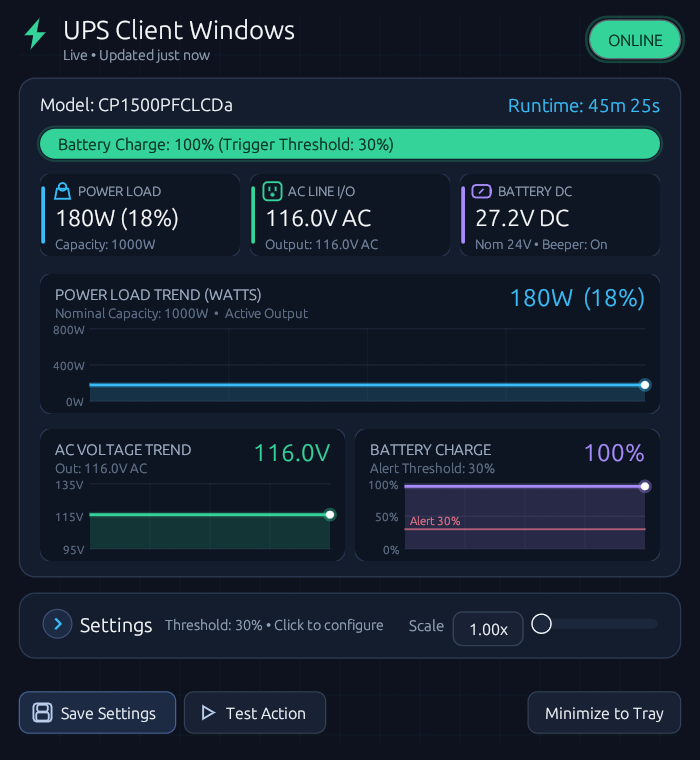
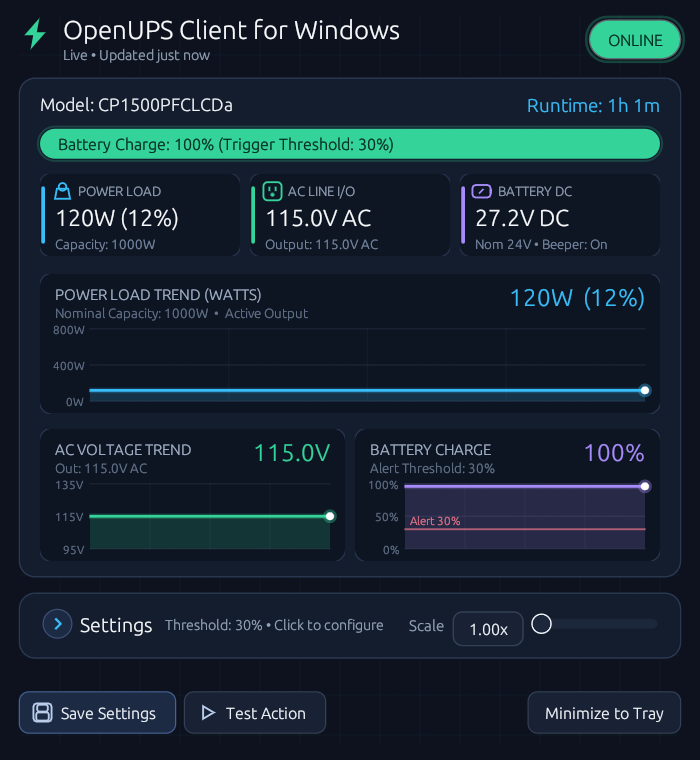
Rename application and references to OpenUPS Client for Windows

diff --git a/src/tray.rs b/src/tray.rs
@@ -37,7 +37,7 @@ pub fn resolve_app_hwnd(cached_hwnd: &AtomicIsize) -> *mut core::ffi::c_void {
         }
     }
 
-    let title: Vec<u16> = "UPS Client Windows\0".encode_utf16().collect();
+    let title: Vec<u16> = "OpenUPS Client for Windows\0".encode_utf16().collect();
     let found = unsafe { FindWindowW(std::ptr::null(), title.as_ptr()) };
     if !found.is_null() {
         cached_hwnd.store(found as isize, Ordering::Relaxed);
@@ -243,7 +243,7 @@ impl SystemTray {
         let tray_icon = TrayIconBuilder::new()
             .with_menu(Box::new(menu.clone()))
             .with_menu_on_left_click(false)
-            .with_tooltip("UPS Client Windows — Monitoring")
+            .with_tooltip("OpenUPS Client for Windows — Monitoring")
             .with_icon(icon)
             .build()
             .map_err(|e| format!("Failed to build system tray icon: {}", e))?;
@@ -354,7 +354,7 @@ impl SystemTray {
                 }
             }
             (_, Some(err)) => {
-                let tooltip = format!("UPS Client Windows — Connection Error\n{}", err);
+                let tooltip = format!("OpenUPS Client for Windows — Connection Error\n{}", err);
                 let _ = self.tray_icon.set_tooltip(Some(tooltip));
                 if let Ok(icon) = build_tray_icon([148, 163, 184]) {
                     let _ = self.tray_icon.set_icon(Some(icon));

diff --git a/src/app.rs b/src/app.rs
@@ -54,7 +54,7 @@ enum PollUpdate {
     },
 }
 
-/// Main application state for `UPS-Client-Windows`.
+/// Main application state for `OpenUPS Client for Windows`.
 pub struct UpsClientApp {
     config: AppConfig,
     settings_expanded: bool,
@@ -527,7 +527,7 @@ impl eframe::App for UpsClientApp {
                             ui.vertical(|ui| {
                                 ui.spacing_mut().item_spacing.y = 1.0;
                                 ui.label(
-                                    RichText::new("UPS Client Windows")
+                                    RichText::new("OpenUPS Client for Windows")
                                         .font(FontId::proportional(21.0))
                                         .strong()
                                         .color(Color32::from_rgb(248, 250, 252)),

diff --git a/src/main.rs b/src/main.rs
@@ -35,7 +35,7 @@ fn main() -> eframe::Result<()> {
     };
 
     let viewport = egui::ViewportBuilder::default()
-        .with_title("UPS Client Windows")
+        .with_title("OpenUPS Client for Windows")
         .with_inner_size([
             BASE_WINDOW_WIDTH * initial_scale,
             BASE_WINDOW_HEIGHT * initial_scale,
@@ -51,7 +51,7 @@ fn main() -> eframe::Result<()> {
     };
 
     eframe::run_native(
-        "UPS Client Windows",
+        "OpenUPS Client for Windows",
         native_options,
         Box::new(move |cc| {
             Ok(Box::new(UpsClientApp::new(

diff --git a/src/actions.rs b/src/actions.rs
@@ -77,7 +77,7 @@ pub fn play_alert_sound(status: &UpsStatus) -> Result<String, String> {
 /// c. Graceful Windows shutdown.
 pub fn initiate_graceful_shutdown(status: &UpsStatus) -> Result<String, String> {
     let comment = format!(
-        "UPS Client Windows: {} battery reached {}% (status: {}). Initiating graceful shutdown.",
+        "OpenUPS Client for Windows: {} battery reached {}% (status: {}). Initiating graceful shutdown.",
         status.model, status.battery_charge, status.status_label
     );
 

diff --git a/src/config.rs b/src/config.rs
@@ -40,7 +40,7 @@ impl TriggerAction {
     ];
 }
 
-/// Persistent user configuration for UPS Client Windows.
+/// Persistent user configuration for OpenUPS Client for Windows.
 #[derive(Debug, Clone, Serialize, Deserialize, PartialEq)]
 #[serde(default)]
 pub struct AppConfig {

diff --git a/README.md b/README.md
@@ -1,4 +1,4 @@
-# UPS Client Windows
+# OpenUPS Client for Windows
 
 [![License: MIT](https://img.shields.io/badge/License-MIT-emerald.svg)](LICENSE)
 [![Platform: Windows](https://img.shields.io/badge/Platform-Windows%2010%20%7C%2011-0078D4.svg)](https://github.com/virlatinus/UPS-Client-Windows)
@@ -6,9 +6,9 @@
 
 > **Modern Windows App that monitors any compatible UPS endpoint via HTTP and triggers alerts or actions on specific events**
 
-`UPS-Client-Windows` is a lightweight, native Rust application for Windows 10 and Windows 11 that continuously monitors an HTTP/JSON UPS status endpoint in the background from the Windows System Tray and executes configurable actions when battery charge drops to or below your chosen threshold.
+**OpenUPS Client for Windows** is a lightweight, native Rust application for Windows 10 and Windows 11 that continuously monitors an HTTP/JSON UPS status endpoint in the background from the Windows System Tray and executes configurable actions when battery charge drops to or below your chosen threshold.
 
-![UPS Client Windows Interface](assets/screenshot.png)
+![OpenUPS Client for Windows Interface](assets/screenshot.png)
 
 ---
 

diff --git a/AGENTS.md b/AGENTS.md
@@ -1,8 +1,8 @@
-# AGENTS.md — AI Agent Guide for `UPS-Client-Windows`
+# AGENTS.md — AI Agent Guide for `OpenUPS Client for Windows`
 
 ## Project Overview
 
-**UPS-Client-Windows** is a modern Windows desktop & System Tray application written in Rust that monitors any compatible UPS endpoint via HTTP and triggers alerts or actions on specific events.
+**OpenUPS Client for Windows** (`UPS-Client-Windows`) is a modern Windows desktop & System Tray application written in Rust that monitors any compatible UPS endpoint via HTTP and triggers alerts or actions on specific events.
 
 - **Repository**: `https://github.com/virlatinus/UPS-Client-Windows`
 - **Language / Edition**: Rust (2021 Edition)
